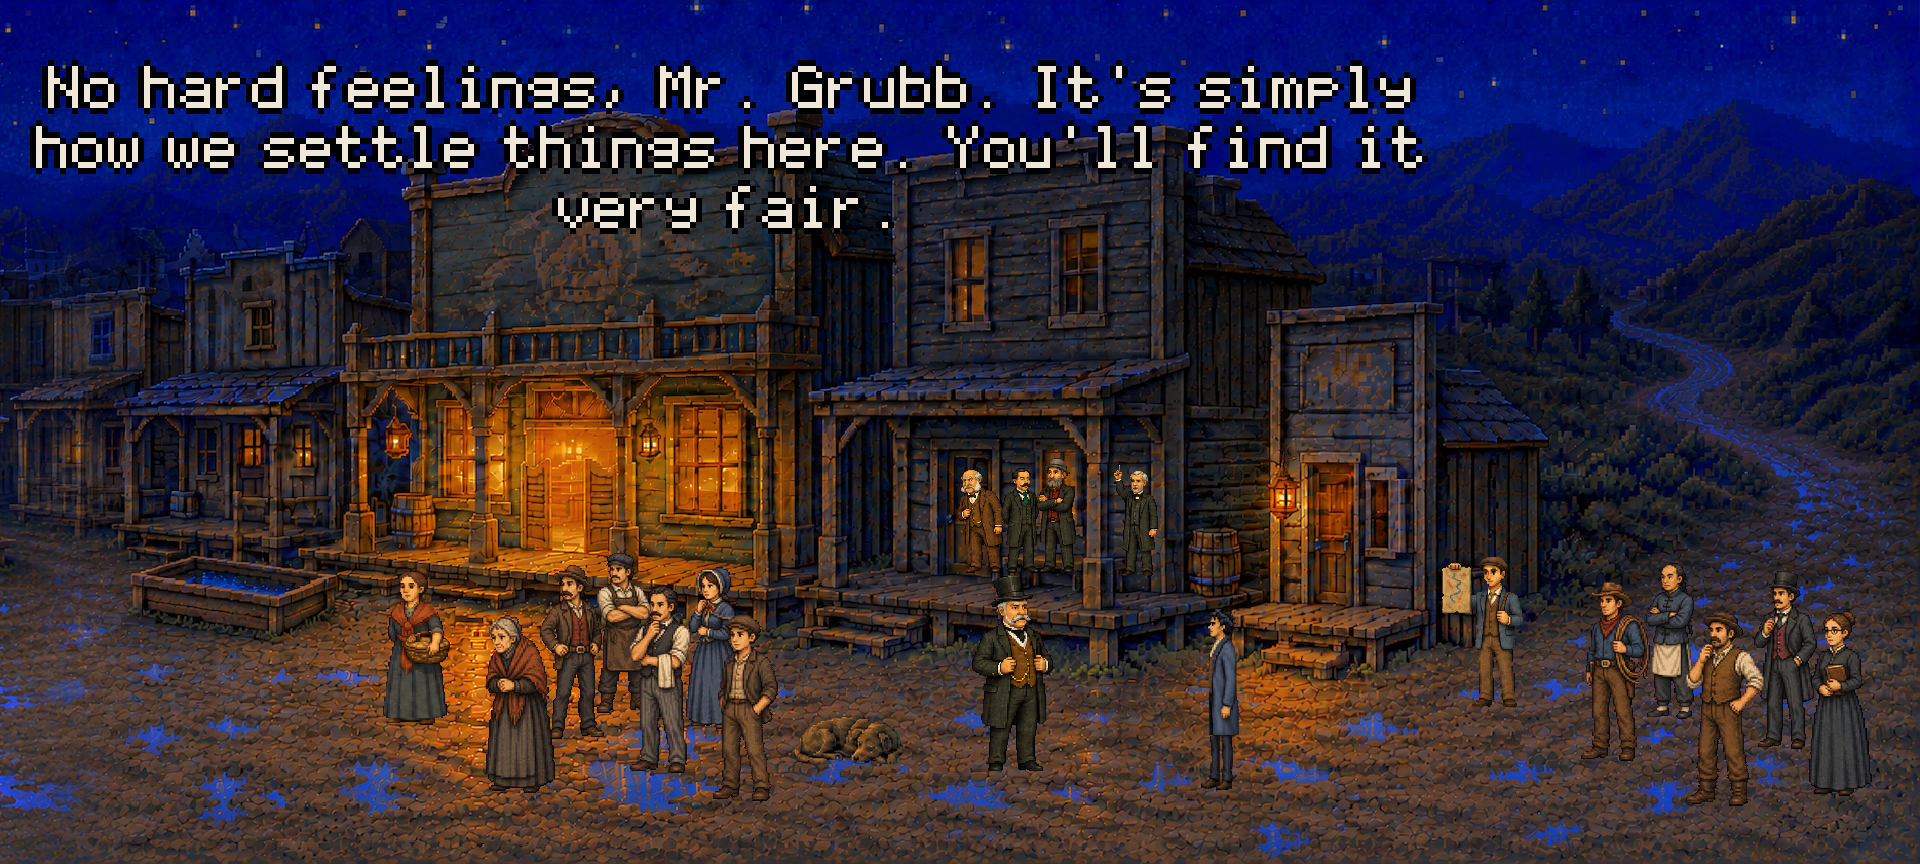
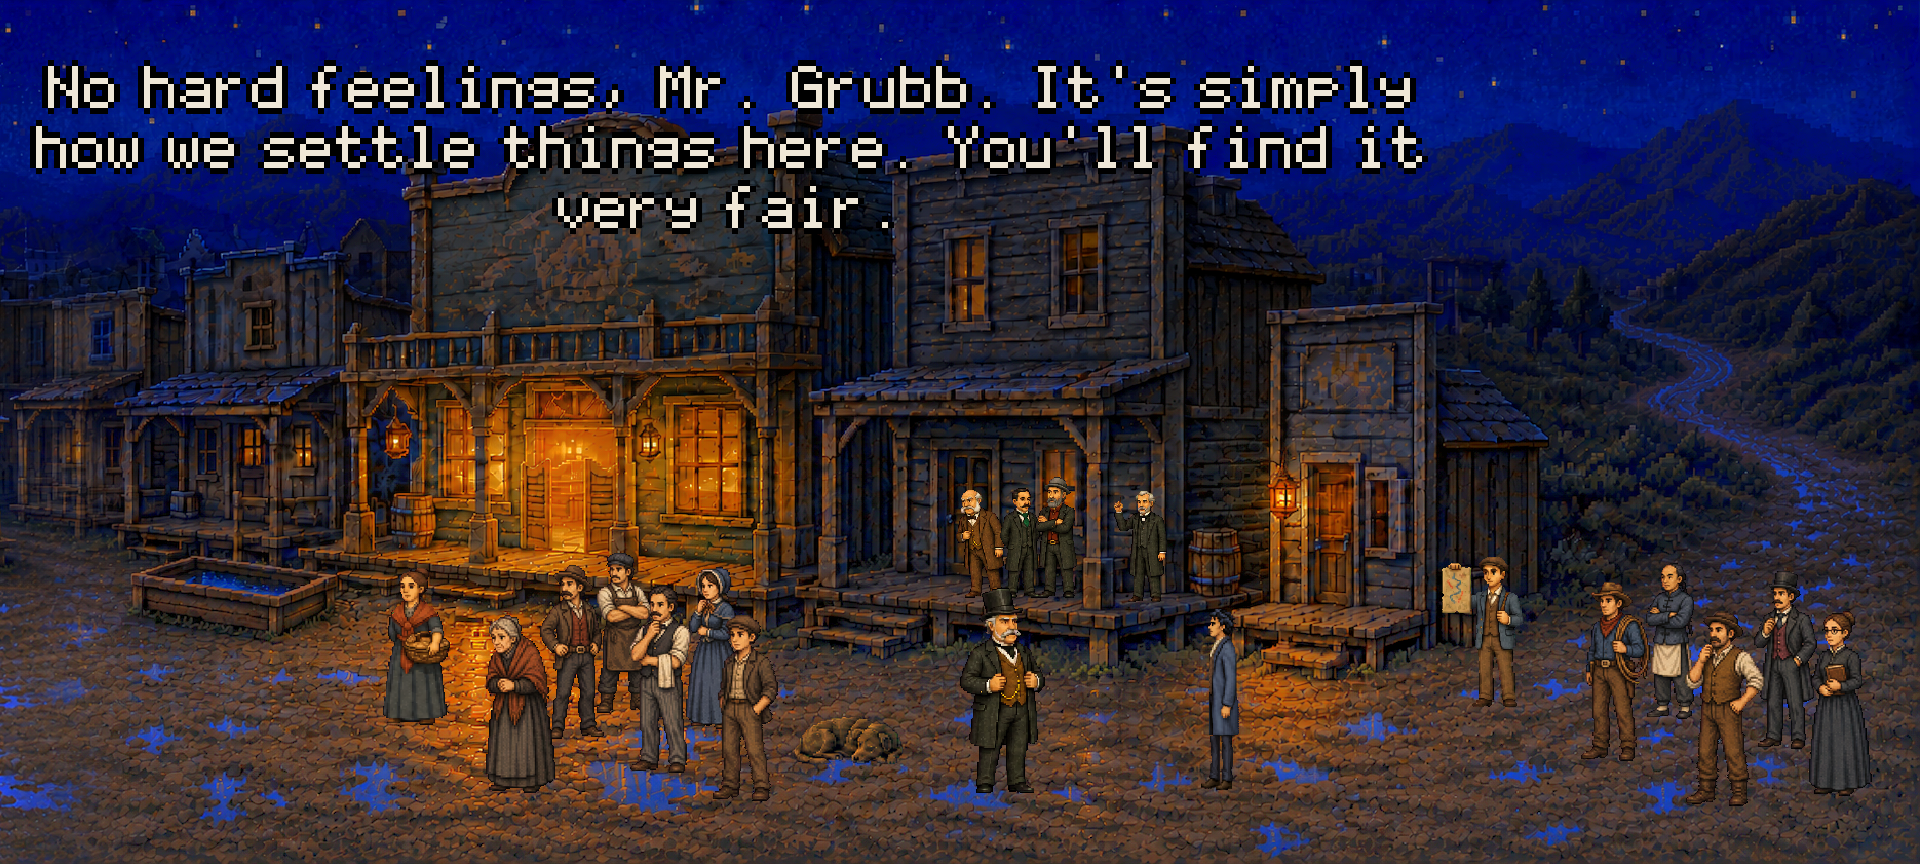
Duel Three's judges and Sowerby stand on the porch boards, not the foot of the wall
Tyler: "They're floating over the porch." Their feet were at y 572, the foot
of the hotel wall; the boards run y 584-606. Measured on the plate, the judges
now stand at y 597 and Sowerby at 601; Fanshawe moves to 2790,792 so his top
hat stays below their feet (the staging check caught the overlap).

Lesson: tests/stands-on.test.mjs -- a figure on raised boards declares the
surface's outline (standsOn) and its feet must be inside it; fails with a
judge back at y 572. The walk boxes cover that row, so no other check saw it.

Claude-Session: https://claude.ai/code/session_01FXbCupzwLJAEr7fqqWYP8A

Changed region(s): [[0.5, 0.5312, 0.625, 0.9375]]

diff --git a/docs/00-errata.md b/docs/00-errata.md
@@ -2781,3 +2781,5 @@ What Tyler still decides: acceptance of the art (errata 72 E, at the full playth
 **S · Duel Three's judges ON the porch (Tyler, 2026-11-06).** The table drawn flat-on and laid on the porch hung off its front edge. Cast-unify 25 painted the three judges and their table into Room 2's own porch -- the table on the boards in the porch's perspective, replacing the bench -- and `tools/art/room02-porch-judges.py` cuts them by subtraction at the plate's coordinates, drawn 1:1 (`duel_judges`, no figureHeight). The earlier flat-on table sheet is no longer drawn. Twenty-five of thirty-five operations used.
 
 **T · Duel Three recomposed: no table (Tyler, 2026-11-06).** Tyler: "Do we need the desk at all?" -- ruled no; doc 57 F4's "the judges' table on the boardwalk" is the only mention and no line or puzzle reads it. The three judges stand on the hotel porch between its door and its corner post, Sowerby with the pencil right of the post, all on the boards well back from the edge (`duel_judge_1..3`, replacing `duel_judges`); Fanshawe stands in the street turned to Thad, in his top hat. The two crowds are eleven distinct townspeople (cast-unify 29), each at his own spot on the street at its depth curve (`tools/art/room02-duel-town.py`). The composition was painted once into a crop of the porch (cast-unify 27) to place everyone; the figures were drawn on magenta (cast-unify 28, 29) because the dark coats could not be cut from the painting. Cast-unify 26 (the whole street) re-laid the buildings and was not used. Twenty-nine of thirty-five operations used. Pending Tyler's look at the whole frame before merge.
+
+**U · On the boards, not the wall (Tyler, 2026-11-06: "They're floating over the porch").** The judges' feet had been set at y 572, the foot of the hotel wall, above the porch's boards (y 584-606); the street's walk boxes cover that row, so the scale and staging checks passed. The boards were measured on the plate (`renders/main-street-porch-floor@6x.png`); the judges stand at y 597 and Sowerby at 601; Fanshawe moves to 2790,792 so his top hat stays below their feet. A figure on raised boards now declares `standsOn` -- the surface's outline -- and `tests/stands-on.test.mjs` holds his feet inside it (it fails with a judge back at y 572).
